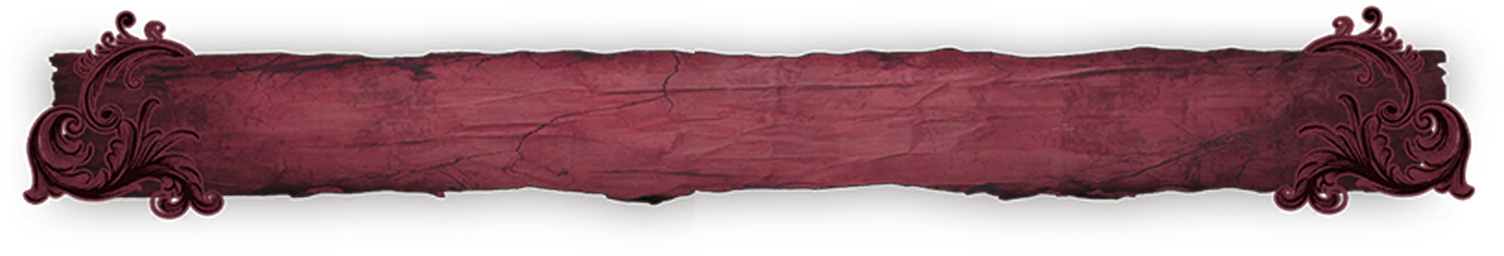
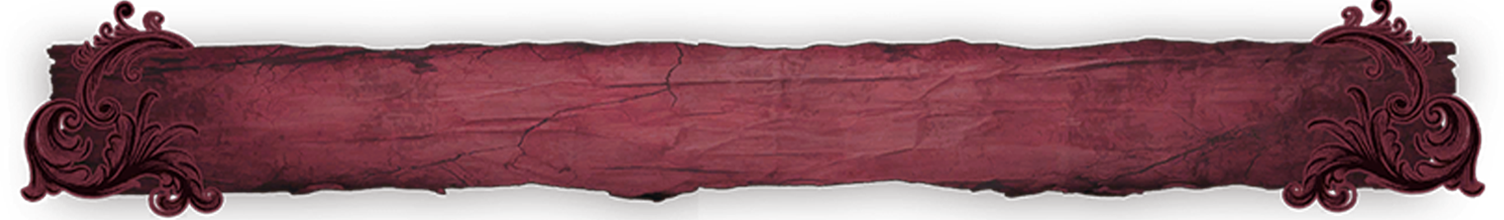
返回标题界面

diff --git a/packages/webgal/src/UI/GlobalDialog/globalDialog.module.scss b/packages/webgal/src/UI/GlobalDialog/globalDialog.module.scss
@@ -1,85 +1,81 @@
 .GlobalDialog_main {
-  height: 100%;
-  width: 100%;
-  position: absolute;
-  z-index: 20;
-  background: rgba(15, 37, 64, 0.39);
-  color: white;
-  opacity: 0.5;
-  animation: showGlobalDialog 0.33s forwards;
-  display: flex;
-  justify-content: center;
-  align-items: center;
-  //font-family: "WebgalUI", -apple-system, BlinkMacSystemFont, 'Segoe UI', 'Roboto', 'Oxygen', 'Ubuntu', 'Cantarell', 'Fira Sans', 'Droid Sans', 'Helvetica Neue', sans-serif;
-  font-family: "思源宋体", serif;
+    height: 100%;
+    width: 100%;
+    position: absolute;
+    z-index: 20;
+    background: transparent;
+    color: white;
+    opacity: 1;
+    animation: showGlobalDialog 0.33s forwards;
+    display: flex;
+    justify-content: center;
+    align-items: center;
+    //font-family: "WebgalUI", -apple-system, BlinkMacSystemFont, 'Segoe UI', 'Roboto', 'Oxygen', 'Ubuntu', 'Cantarell', 'Fira Sans', 'Droid Sans', 'Helvetica Neue', sans-serif;
+    font-family: "思源宋体", serif;
 }
 
 .glabalDialog_container_inner {
-  width: 100%;
-  height: 100%;
-  display: flex;
-  justify-content: center;
-  align-items: center;
-  flex-flow: column;
-  background: linear-gradient(to right,
-    rgba(0, 92, 175, 0) 0%,
-    rgba(0, 92, 175, 0.5) 33%,
-    rgba(0, 92, 175, 0.85) 50%,
-    rgba(0, 92, 175, 0.5) 66%,
-    rgba(0, 92, 175, 0) 100%
-  );
-  padding: 1em 5em 1.5em 5em;
+    width: 100%;
+    height: 100%;
+    display: flex;
+    justify-content: center;
+    align-items: center;
+    flex-flow: column;
+    background: url('@/assets/dragonspring/alert.png') center/100% auto no-repeat;
+    padding: 1em 5em 1.5em 5em;
 }
 
 .glabalDialog_container {
-  height: 20%;
-  width: 100%;
-  border-top: 4px solid;
-  border-bottom: 4px solid;
-  border-image: linear-gradient(to right,
-    rgba(255, 255, 255, 0.05) 0%,
-    rgba(255, 255, 255, 0.85) 33%,
-    rgba(255, 255, 255, 1) 50%,
-    rgba(255, 255, 255, 0.85) 66%,
-    rgba(255, 255, 255, 0.05) 100%
-  ) 1;
-  //padding: 1px 1px 1px 1px;
+    width: 100%;
+    height: 100%;
 }
 
 .title {
-  font-size: 300%;
-  text-shadow: 0 0 10px rgba(255, 255, 255, 0.5);
+    font-size: 200%;
+    color: #463c3a;
+    font-weight: bold;
+    transform: translateY(500px);
 }
 
 .button_list {
-  display: flex;
-  margin: auto 0 0 0;
+    display: flex;
+    margin: auto 0 0 0;
+    transform: translateY(-500px);
 }
 
 .button {
-  font-size: 200%;
-  padding: 0.15em 1em 0.15em 1em;
-  margin: 0.2em 1em 0.2em 1em;
-  cursor: pointer;
-  transition: background-color 0.33s, color 0.33s, font-weight 0.33s, transform 0.33s;
-  text-shadow: 0 0 10px rgba(255, 255, 255, 1);
-  border-radius: 5px;
-  //background: rgba(0, 0, 0, 0.05);
+    font-size: 200%;
+    padding: 0.15em 1em 0.15em 1em;
+    margin: 0.5em 5em 0.2em 5em;
+    cursor: pointer;
+    transition: background-color 0.33s, color 0.33s, font-weight 0.33s, transform 0.33s;
+    // border-radius: 5px;
+    background: url('@/assets/dragonspring/button.png') center/contain no-repeat;
+    color: white;
+    display: flex;
+    scale: 3;
+    align-items: center;
+    justify-content: center;
 }
 
-.button:hover {
-  font-weight: bold;
-  color: #005caf;
-  transform: scale(1.1, 1.1);
-  text-shadow: 0 0 15px rgba(0, 0, 0, 0);
-  background: rgba(255, 255, 255, 0.85);
+.button span {
+    transform: scale(0.5);
+    display: inline-block;
 }
 
+// .button:hover {
+//     font-weight: bold;
+//     color: #005caf;
+//     transform: scale(1.1, 1.1);
+//     text-shadow: 0 0 15px rgba(0, 0, 0, 0);
+//     background: url('@/assets/dragonspring/button.png') center/contain no-repeat;
+//     filter: brightness(1.2);
+// }
 @keyframes showGlobalDialog {
-  0% {
-    opacity: 0;
-  }
-  100% {
-    opacity: 1;
-  }
+    0% {
+        opacity: 0;
+    }
+    100% {
+        opacity: 1;
+    }
 }

diff --git a/packages/webgal/src/Core/gameScripts/choose/choose.module.min.css b/packages/webgal/src/Core/gameScripts/choose/choose.module.min.css
@@ -1,1 +1,1 @@
-.Choose_Main{position:absolute;width:100%;height:100%;display:flex;flex-flow:column;justify-content:center;align-items:center;z-index:13;background:rgba(0,0,0,0.05)}.Choose_item{font-family:"WebgalUI", serif;cursor:pointer;min-width:50%;padding:2em 1em;font-size:265%;color:#8E354A;text-align:center;border:none;box-shadow:none;background:transparent;margin:0.5em 0;transition:color 0.3s ease;position:relative;min-height:120px;display:flex;align-items:center;justify-content:center;background-size:contain !important;background-repeat:no-repeat !important;background-position:center !important}.Choose_item_disabled{font-family:"WebgalUI", serif;cursor:not-allowed;min-width:50%;padding:2em 1em;font-size:265%;color:rgba(142,53,74,0.5);text-align:center;border:none;box-shadow:none;background:transparent;margin:0.5em 0;transition:color 0.3s ease;position:relative;min-height:120px;display:flex;align-items:center;justify-content:center;opacity:0.6;background-size:contain !important;background-repeat:no-repeat !important;background-position:center !important}.Choose_item_outer{color:#000;min-width:50%;position:relative}.Choose_skeleton{position:absolute;left:100px;top:50px;transform:scale(1.2);z-index:20;height:auto;width:auto;pointer-events:none}
+.Choose_Main{position:absolute;width:100%;height:100%;display:flex;flex-flow:column;justify-content:center;align-items:center;z-index:13;background:rgba(0,0,0,0.05)}.Choose_item{font-family:"WebgalUI", serif;cursor:pointer;min-width:50%;padding:2em 1em;font-size:265%;color:#000000;text-align:center;border:none;box-shadow:none;background:transparent;margin:-20px !important;transition:color 0.3s ease;position:relative;min-height:120px;display:flex;align-items:center;justify-content:center;background-size:contain !important;background-repeat:no-repeat !important;background-position:center !important}.Choose_item_disabled{font-family:"WebgalUI", serif;cursor:not-allowed;min-width:50%;padding:2em 1em;font-size:265%;color:#000;text-align:center;border:none;box-shadow:none;background:transparent;margin:-20px !important;transition:color 0.3s ease;position:relative;min-height:120px;display:flex;align-items:center;justify-content:center;opacity:0.6;background-size:contain !important;background-repeat:no-repeat !important;background-position:center !important}.Choose_item_outer{color:#000;min-width:50%;position:relative;margin:-20px !important}.Choose_skeleton{position:absolute;left:100px;top:30px;transform:scale(1.2);z-index:20;height:auto;width:auto;pointer-events:none}

diff --git a/packages/webgal/src/UI/GlobalDialog/globalDialog.module.css b/packages/webgal/src/UI/GlobalDialog/globalDialog.module.css
@@ -1,0 +1,72 @@
+@charset "UTF-8";
+.GlobalDialog_main {
+  height: 100%;
+  width: 100%;
+  position: absolute;
+  z-index: 20;
+  background: transparent;
+  color: white;
+  opacity: 1;
+  animation: showGlobalDialog 0.33s forwards;
+  display: flex;
+  justify-content: center;
+  align-items: center;
+  font-family: "思源宋体", serif;
+}
+
+.glabalDialog_container_inner {
+  width: 100%;
+  height: 100%;
+  display: flex;
+  justify-content: center;
+  align-items: center;
+  flex-flow: column;
+  background: url("@/assets/dragonspring/alert.png") center/100% auto no-repeat;
+  padding: 1em 5em 1.5em 5em;
+}
+
+.glabalDialog_container {
+  width: 100%;
+  height: 100%;
+}
+
+.title {
+  font-size: 200%;
+  color: #463c3a;
+  font-weight: bold;
+  transform: translateY(500px);
+}
+
+.button_list {
+  display: flex;
+  margin: auto 0 0 0;
+  transform: translateY(-500px);
+}
+
+.button {
+  font-size: 200%;
+  padding: 0.15em 1em 0.15em 1em;
+  margin: 0.5em 5em 0.2em 5em;
+  cursor: pointer;
+  transition: background-color 0.33s, color 0.33s, font-weight 0.33s, transform 0.33s;
+  background: url("@/assets/dragonspring/button.png") center/contain no-repeat;
+  color: white;
+  display: flex;
+  scale: 3;
+  align-items: center;
+  justify-content: center;
+}
+
+.button span {
+  transform: scale(0.5);
+  display: inline-block;
+}
+
+@keyframes showGlobalDialog {
+  0% {
+    opacity: 0;
+  }
+  100% {
+    opacity: 1;
+  }
+}

diff --git a/packages/webgal/src/Core/gameScripts/choose/choose.module.scss b/packages/webgal/src/Core/gameScripts/choose/choose.module.scss
@@ -16,12 +16,12 @@
     min-width: 50%;
     padding: 2em 1em;
     font-size: 265%;
-    color: #8E354A; // 默认颜色
+    color: #000000; // 默认颜色
     text-align: center;
     border: none;
     box-shadow: none;
     background: transparent;
-    margin: 0.5em 0;
+    margin: -20px !important;
     transition: color 0.3s ease; // 添加文字颜色过渡效果
     position: relative;
     min-height: 120px;
@@ -39,12 +39,12 @@
     min-width: 50%;
     padding: 2em 1em;
     font-size: 265%;
-    color: rgba(142, 53, 74, 0.5);
+    color: rgba(0, 0, 0, 1);
     text-align: center;
     border: none;
     box-shadow: none;
     background: transparent;
-    margin: 0.5em 0;
+    margin: -20px !important;
     transition: color 0.3s ease; // 添加文字颜色过渡效果
     position: relative;
     min-height: 120px;
@@ -61,12 +61,13 @@
     color: #000;
     min-width: 50%;
     position: relative;
+    margin: -20px !important;
 }
 
 .Choose_skeleton {
     position: absolute;
     left: 100px;
-    top: 50px;
+    top: 30px;
     transform: scale(1.2);
     z-index: 20; // 高于 choose 选项的 z-index (13)
     height: auto;

diff --git a/packages/webgal/src/UI/GlobalDialog/globalDialog.module.min.css b/packages/webgal/src/UI/GlobalDialog/globalDialog.module.min.css
@@ -1,0 +1,1 @@
+.GlobalDialog_main{height:100%;width:100%;position:absolute;z-index:20;background:transparent;color:white;opacity:1;animation:showGlobalDialog 0.33s forwards;display:flex;justify-content:center;align-items:center;font-family:"思源宋体", serif}.glabalDialog_container_inner{width:100%;height:100%;display:flex;justify-content:center;align-items:center;flex-flow:column;background:url("@/assets/dragonspring/alert.png") center/100% auto no-repeat;padding:1em 5em 1.5em 5em}.glabalDialog_container{width:100%;height:100%}.title{font-size:200%;color:#463c3a;font-weight:bold;transform:translateY(500px)}.button_list{display:flex;margin:auto 0 0 0;transform:translateY(-500px)}.button{font-size:200%;padding:0.15em 1em 0.15em 1em;margin:0.5em 5em 0.2em 5em;cursor:pointer;transition:background-color 0.33s, color 0.33s, font-weight 0.33s, transform 0.33s;background:url("@/assets/dragonspring/button.png") center/contain no-repeat;color:white;display:flex;scale:3;align-items:center;justify-content:center}.button span{transform:scale(0.5);display:inline-block}@keyframes showGlobalDialog{0%{opacity:0}100%{opacity:1}}

diff --git a/packages/webgal/src/Core/gameScripts/choose/choose.module.css b/packages/webgal/src/Core/gameScripts/choose/choose.module.css
@@ -16,12 +16,12 @@
   min-width: 50%;
   padding: 2em 1em;
   font-size: 265%;
-  color: #8E354A;
+  color: #000000;
   text-align: center;
   border: none;
   box-shadow: none;
   background: transparent;
-  margin: 0.5em 0;
+  margin: -20px !important;
   transition: color 0.3s ease;
   position: relative;
   min-height: 120px;
@@ -39,12 +39,12 @@
   min-width: 50%;
   padding: 2em 1em;
   font-size: 265%;
-  color: rgba(142, 53, 74, 0.5);
+  color: black;
   text-align: center;
   border: none;
   box-shadow: none;
   background: transparent;
-  margin: 0.5em 0;
+  margin: -20px !important;
   transition: color 0.3s ease;
   position: relative;
   min-height: 120px;
@@ -61,12 +61,13 @@
   color: #000;
   min-width: 50%;
   position: relative;
+  margin: -20px !important;
 }
 
 .Choose_skeleton {
   position: absolute;
   left: 100px;
-  top: 50px;
+  top: 30px;
   transform: scale(1.2);
   z-index: 20;
   height: auto;

diff --git a/packages/webgal/src/UI/GlobalDialog/GlobalDialog.tsx b/packages/webgal/src/UI/GlobalDialog/GlobalDialog.tsx
@@ -38,10 +38,10 @@ export function showGlogalDialog(props: IShowGlobalDialogProps) {
           <div className={styles.title}>{props.title}</div>
           <div className={styles.button_list}>
             <div className={styles.button} onClick={handleLeft}>
-              {props.leftText}
+              <span>{props.leftText}</span>
             </div>
             <div className={styles.button} onClick={handleRight}>
-              {props.rightText}
+              <span>{props.rightText}</span>
             </div>
           </div>
         </div>

diff --git a/packages/webgal/src/translations/zh-cn.ts b/packages/webgal/src/translations/zh-cn.ts
@@ -186,7 +186,7 @@ const zhCn = {
       fullscreen: '全屏',
       options: '选项',
       title: '标题',
-      titleTips: '确定要返回标题界面吗？',
+      titleTips: '即将返回标题界面。',
     },
   },
 
